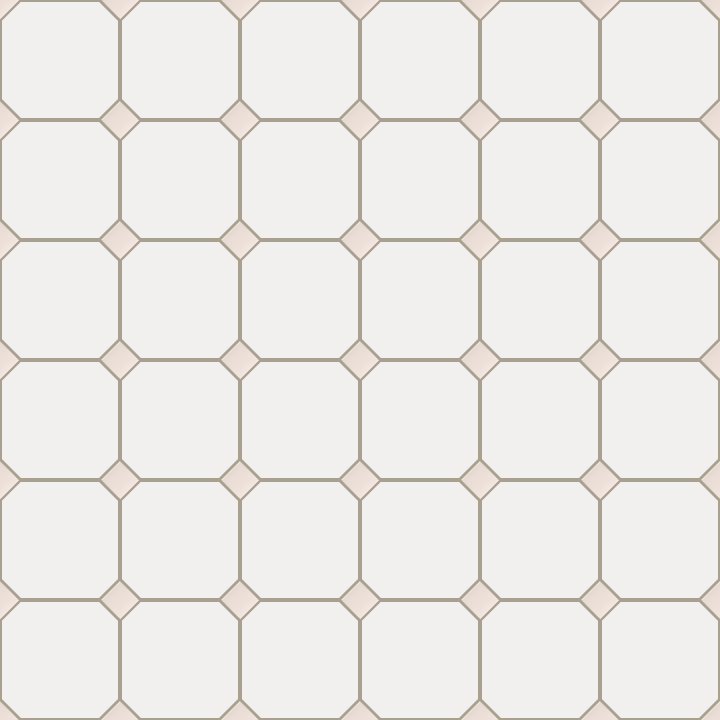
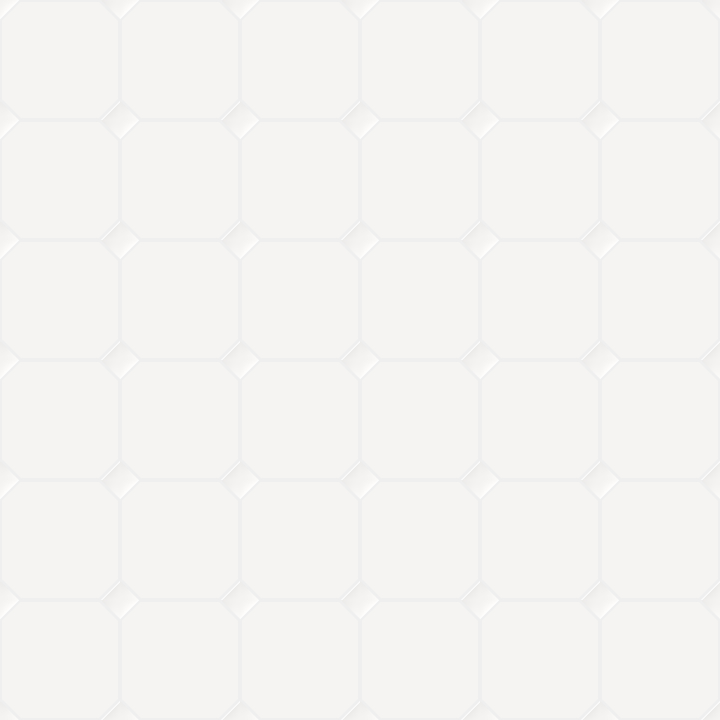
updates

Changed region(s): [[0.0, 0.0, 1.0, 1.0], [0.0, 0.0, 0.0306, 0.0306]]

diff --git a/frontend/app/components/Domain/Recipe/RecipeCardNavigation.test.ts b/frontend/app/components/Domain/Recipe/RecipeCardNavigation.test.ts
@@ -1,0 +1,70 @@
+import { shallowMount, flushPromises } from "@vue/test-utils";
+import { createMemoryHistory, createRouter } from "vue-router";
+import { defineComponent, ref } from "vue";
+import type { Component } from "vue";
+import { afterEach, describe, expect, test, vi } from "vitest";
+import RecipeCard from "./RecipeCard.vue";
+import RecipeCardMobile from "./RecipeCardMobile.vue";
+
+vi.mock("~/composables/use-logged-in-state", () => ({ useLoggedInState: () => ({ isOwnGroup: false }) }));
+vi.mock("~/composables/use-users", () => ({ useUserSelfRatings: () => ({ userRatings: ref([]), setFavorite: vi.fn() }) }));
+vi.mock("~/plugins/recipe-synesthesia.client", () => ({ playRecipeSynesthesia: vi.fn() }));
+vi.mock("~/composables/api", () => ({ useStaticRoutes: () => ({ recipeImage: vi.fn() }), useUserApi: () => ({}) }));
+
+const Card = defineComponent({ template: "<a v-bind=\"$attrs\"><slot /></a>" });
+const Hover = defineComponent({ inheritAttrs: false, template: "<slot :props=\"{}\" :isHovering=\"false\" />" });
+const ListItem = defineComponent({ template: "<div><slot name=\"prepend\" /><slot /></div>" });
+
+afterEach(() => vi.unstubAllGlobals());
+
+describe("recipe card navigation", () => {
+  async function render(mobile: boolean, selected = false) {
+    const router = createRouter({ history: createMemoryHistory(), routes: [
+      { path: "/g/family", component: Card },
+      { path: "/g/family/r/soup", component: Card },
+    ] });
+    await router.push("/g/family");
+    vi.stubGlobal("useRoute", () => router.currentRoute.value);
+    vi.stubGlobal("useMealieAuth", () => ({ user: ref({ groupSlug: "family" }) }));
+    vi.stubGlobal("useNuxtApp", () => ({ $globals: { icons: {} } }));
+    const component: Component = mobile ? RecipeCardMobile : RecipeCard;
+    const wrapper = shallowMount(component, {
+      props: { name: "Soup", slug: "soup", recipeId: "id", description: "Description", ...(mobile ? { listMode: true } : {}) },
+      attrs: selected ? { selected: true } : {},
+      global: { plugins: [router], renderStubDefaultSlot: true, stubs: {
+        VCard: Card, VHover: Hover, VListItem: ListItem,
+        VExpandTransition: defineComponent({ template: "<div><slot /></div>" }),
+        VCardTitle: true, VListItemTitle: true, VListItemSubtitle: true,
+        VCardActions: true, VImg: true, VBtn: true, VTooltip: true, VSheet: true, VMenu: true, SafeMarkdown: true,
+      } },
+    });
+    return { wrapper, router };
+  }
+
+  for (const mobile of [false, true]) {
+    test(`${mobile ? "list" : "sticky"} card title opens the recipe`, async () => {
+      const { wrapper, router } = await render(mobile);
+      expect(wrapper.find("a").attributes("href")).toBe("/g/family/r/soup");
+      await wrapper.find(mobile ? "v-list-item-title-stub" : "v-card-title-stub").trigger("click");
+      await flushPromises();
+      expect(router.currentRoute.value.path).toBe("/g/family/r/soup");
+      wrapper.unmount();
+    });
+    test(`${mobile ? "list" : "sticky"} card preserves modified clicks`, async () => {
+      const { wrapper, router } = await render(mobile);
+      await wrapper.find("a").trigger("click", { ctrlKey: true });
+      await flushPromises();
+      expect(router.currentRoute.value.path).toBe("/g/family");
+      wrapper.unmount();
+    });
+  }
+  test("selection cards emit selection without navigating", async () => {
+    const { wrapper, router } = await render(true, true);
+    await wrapper.find("a").trigger("click");
+    await flushPromises();
+    expect(wrapper.emitted("selected")).toHaveLength(1);
+    expect(router.currentRoute.value.path).toBe("/g/family");
+    expect(wrapper.find("a").attributes("href")).toBeUndefined();
+    wrapper.unmount();
+  });
+});

diff --git a/frontend/app/components/Domain/Recipe/RecipeCardMobile.vue b/frontend/app/components/Domain/Recipe/RecipeCardMobile.vue
@@ -11,8 +11,8 @@
         :style="{ cursor }"
         hover
         :height="listMode || compact ? undefined : '100%'"
-        :to="$attrs.selected ? undefined : recipeRoute"
-        @click="$emit('selected')"
+        :href="!$attrs.selected && showRecipeContent ? recipeLink.href.value : undefined"
+        @click="onCardClick"
       >
         <v-img v-if="vertical" class="rounded-sm" cover>
           <RecipeCardImage
@@ -73,7 +73,7 @@
           >
             <div :class="{ 'recipe-list-title-row': listMode }">
               <button
-                v-if="listMode || compact"
+                v-if="compact"
                 type="button"
                 class="recipe-card-mobile__title recipe-title-toggle ma-0 text-top"
                 :class="listMode ? 'recipe-list-title' : 'recipe-compact-title'"
@@ -244,6 +244,7 @@
 </template>
 
 <script setup lang="ts">
+import { useLink } from "vue-router";
 import { useLoggedInState } from "~/composables/use-logged-in-state";
 import RecipeCardImage from "./RecipeCardImage.vue";
 import RecipeCardRating from "./RecipeCardRating.vue";
@@ -295,7 +296,7 @@ const props = withDefaults(defineProps<Props>(), {
   contextMenuLeadingItems: () => [],
 });
 
-defineEmits<{
+const emit = defineEmits<{
   mealplanRemove: [];
   mealplanEdit: [];
   addToShoppingList: [];
@@ -337,6 +338,12 @@ watch(() => [props.slug, props.compact, props.listMode] as const, async ([slug, 
 const recipeRoute = computed<string>(() => {
   return showRecipeContent.value ? `/g/${groupSlug.value}/r/${props.slug}` : "";
 });
+const recipeLink = useLink({ to: recipeRoute });
+const attrs = useAttrs();
+function onCardClick(event: MouseEvent) {
+  emit("selected");
+  if (!attrs.selected && showRecipeContent.value) void recipeLink.navigate(event);
+}
 const cursor = computed(() => showRecipeContent.value ? "pointer" : "auto");
 const lightboxOpen = ref(false);
 const titleExpanded = ref(false);

diff --git a/frontend/app/plugins/dev-service-worker.client.test.ts b/frontend/app/plugins/dev-service-worker.client.test.ts
@@ -1,0 +1,25 @@
+import { describe, expect, test, vi } from "vitest";
+import { unregisterDevWorker } from "./dev-service-worker.client";
+
+function registration(scope: string, scriptURL: string) {
+  const unregister = vi.fn(async () => true);
+  return { scope, active: { scriptURL }, unregister } as unknown as ServiceWorkerRegistration & { unregister: typeof unregister };
+}
+
+describe("stale development service workers", () => {
+  test("unregisters the app worker without touching other workers or scopes", async () => {
+    const app = registration("http://localhost:3000/", "http://localhost:3000/sw.js");
+    const other = registration("http://localhost:3000/other/", "http://localhost:3000/other/sw.js");
+    const unrelated = registration("http://localhost:3000/", "http://localhost:3000/unrelated.js");
+    await unregisterDevWorker(new URL("http://localhost:3000/"), { getRegistrations: async () => [app, other, unrelated] });
+    expect(app.unregister).toHaveBeenCalledOnce();
+    expect(other.unregister).not.toHaveBeenCalled();
+    expect(unrelated.unregister).not.toHaveBeenCalled();
+  });
+
+  test("handles apps hosted under a subpath", async () => {
+    const app = registration("http://localhost:3000/chef/", "http://localhost:3000/chef/sw.js");
+    await unregisterDevWorker(new URL("http://localhost:3000/chef/"), { getRegistrations: async () => [app] });
+    expect(app.unregister).toHaveBeenCalledOnce();
+  });
+});

diff --git a/frontend/app/components/Domain/Recipe/RecipeCard.vue b/frontend/app/components/Domain/Recipe/RecipeCard.vue
@@ -8,9 +8,10 @@
         :class="{ 'on-hover': isHovering }"
         :style="{ cursor }"
         :elevation="0"
-        :to="recipeRoute"
+        :href="showRecipeContent ? recipeLink.href.value : undefined"
         :min-height="imageHeight + 75"
         @click.self="$emit('click')"
+        @click="showRecipeContent && recipeLink.navigate($event)"
       >
         <RecipeCardImage
           small
@@ -71,6 +72,7 @@
 </template>
 
 <script setup lang="ts">
+import { useLink } from "vue-router";
 import RecipeChips from "./RecipeChips.vue";
 import RecipeContextMenu from "./RecipeContextMenu/RecipeContextMenu.vue";
 import RecipeCardImage from "./RecipeCardImage.vue";
@@ -118,6 +120,7 @@ const showRecipeContent = computed(() => props.recipeId && props.slug);
 const recipeRoute = computed<string>(() => {
   return showRecipeContent.value ? `/g/${groupSlug.value}/r/${props.slug}` : "";
 });
+const recipeLink = useLink({ to: recipeRoute });
 const cursor = computed(() => showRecipeContent.value ? "pointer" : "auto");
 const isFavorite = computed(() => userRatings.value.find(rating => rating.recipeId === props.recipeId)?.isFavorite || false);
 const menuLeadingItems = computed<ContextMenuItem[]>(() => [

diff --git a/frontend/app/plugins/dev-service-worker.client.ts b/frontend/app/plugins/dev-service-worker.client.ts
@@ -1,0 +1,23 @@
+export async function unregisterDevWorker(baseURL: URL, serviceWorker: Pick<ServiceWorkerContainer, "getRegistrations">) {
+  const registrations = await serviceWorker.getRegistrations();
+  for (const registration of registrations) {
+    if (registration.scope !== baseURL.href) continue;
+    const worker = registration.active ?? registration.waiting ?? registration.installing;
+    if (!worker) continue;
+    const scriptURL = new URL(worker.scriptURL);
+    const scriptPath = scriptURL.pathname.slice(baseURL.pathname.length);
+    if (scriptURL.origin === baseURL.origin && /^(?:dev-)?sw\.js$/.test(scriptPath)) {
+      await registration.unregister();
+    }
+  }
+}
+
+export default defineNuxtPlugin(async () => {
+  if (!import.meta.dev || !("serviceWorker" in navigator)) return;
+  try {
+    await unregisterDevWorker(new URL(useRuntimeConfig().app.baseURL, window.location.origin), navigator.serviceWorker);
+  }
+  catch (error) {
+    console.warn("Unable to unregister the development service worker", error);
+  }
+});

diff --git a/frontend/app/assets/ratatouille/main.css b/frontend/app/assets/ratatouille/main.css
@@ -77,11 +77,11 @@ body,
 /* Retain the original dots as an opt-in fallback for future use. */
 .v-application {
   --bistro-dotted-background: radial-gradient(circle, rgba(var(--v-theme-separator), 0.4) 1.5px, transparent 1.5px);
-  --bistro-page-pattern: var(--bistro-dotted-background);
-  --bistro-page-pattern-size: 18px 18px;
+  --bistro-page-pattern: url("/light_background.png");
+  --bistro-page-pattern-size: 720px 720px;
 }
 .v-application.v-theme--dark {
-  --bistro-page-pattern: var(--bistro-dotted-background);
+  --bistro-page-pattern: url("/dark_background.png");
 }
 .v-application.bistro-background-dots {
   --bistro-page-pattern: var(--bistro-dotted-background);

diff --git a/frontend/nuxt.config.ts b/frontend/nuxt.config.ts
@@ -219,10 +219,11 @@ export default defineNuxtConfig({
       suppressWarnings: true,
     },
     workbox: {
-      navigateFallback: "/",
+      navigateFallback: process.env.SUB_PATH || "/",
       navigateFallbackAllowlist: [/^(?!\/api|\/docs)/],
       globPatterns: ["**/*.{js,css,html,png,svg,ico}"],
-      globIgnores: ["404.html", "200.html", "index.html"],
+      // Nuxt PWA maps index.html to the app base URL used by navigateFallback.
+      globIgnores: ["404.html", "200.html"],
       cleanupOutdatedCaches: true,
       skipWaiting: true,
       clientsClaim: true,

diff --git a/frontend/app/assets/theme.css b/frontend/app/assets/theme.css
@@ -381,8 +381,9 @@ a:not(.v-btn):not(.v-list-item):not(.text-media-foreground):not(.bistro-wordmark
 :is(.v-dialog, .v-bottom-sheet) > .v-overlay__scrim {
   background: rgba(var(--v-theme-media-scrim), 0.24);
   opacity: 1;
-  backdrop-filter: blur(6px);
+  /* Keep the standard declaration last: production minification merges these aliases. */
   -webkit-backdrop-filter: blur(6px);
+  backdrop-filter: blur(6px);
   pointer-events: auto;
   touch-action: none;
 }

diff --git a/frontend/app/components/Domain/Recipe/RecipePage/RecipePageParts/RecipePageHeader.vue b/frontend/app/components/Domain/Recipe/RecipePage/RecipePageParts/RecipePageHeader.vue
@@ -1,7 +1,6 @@
 <template>
   <div>
     <RecipePageInfoCard :recipe="recipe" :recipe-scale="recipeScale" :landscape="landscape" />
-    <v-divider />
     <RecipeActionMenu
       :recipe="recipe"
       :slug="recipe.slug"

diff --git a/docs/petit-chef-development.md b/docs/petit-chef-development.md
@@ -70,3 +70,7 @@ First Docker startup installs the editable project and applies existing SQLite m
 Verified on 2026-10-08: Node 22.15.0, pnpm 11.23.0 installed on the user PATH (dependency installation initially used Codex's pnpm 11.25.0), Task 3.54.0, Docker Engine 29.6.2, Python 3.12 in Docker, locked frontend and backend dependencies. The app root, frontend-proxied app-info endpoint, and backend docs were checked for HTTP 200. No backend source or dependency lockfiles were changed.
 
 For frontend work, use `task ui:check`. Backend source and schemas are outside this fork's customization scope. Preserve Vuetify and existing API contracts.
+
+If Chrome reports Workbox `non-precached-url` for `/`, reload the development page twice. The development-only service-worker plugin unregisters stale Petit Chef workers for the current app scope; a second load releases the previously controlled page. Production precaching must include `index.html`: the Nuxt PWA module maps it to the app base URL used by `navigateFallback`. Do not exclude it in `workbox.globIgnores`.
+
+For modal backdrop blur, keep `-webkit-backdrop-filter` before the standard `backdrop-filter` declaration in `app/assets/theme.css`. Verified on 2026-10-09: the reversed order caused production minification to retain only the prefixed property, which Chromium ignored. After `pnpm generate`, check that the modal scrim rule in `.output/public/_nuxt/entry*.css` retains `backdrop-filter:blur(6px)`. Deploy the rebuilt frontend and reload to pick up its new hashed stylesheet.
